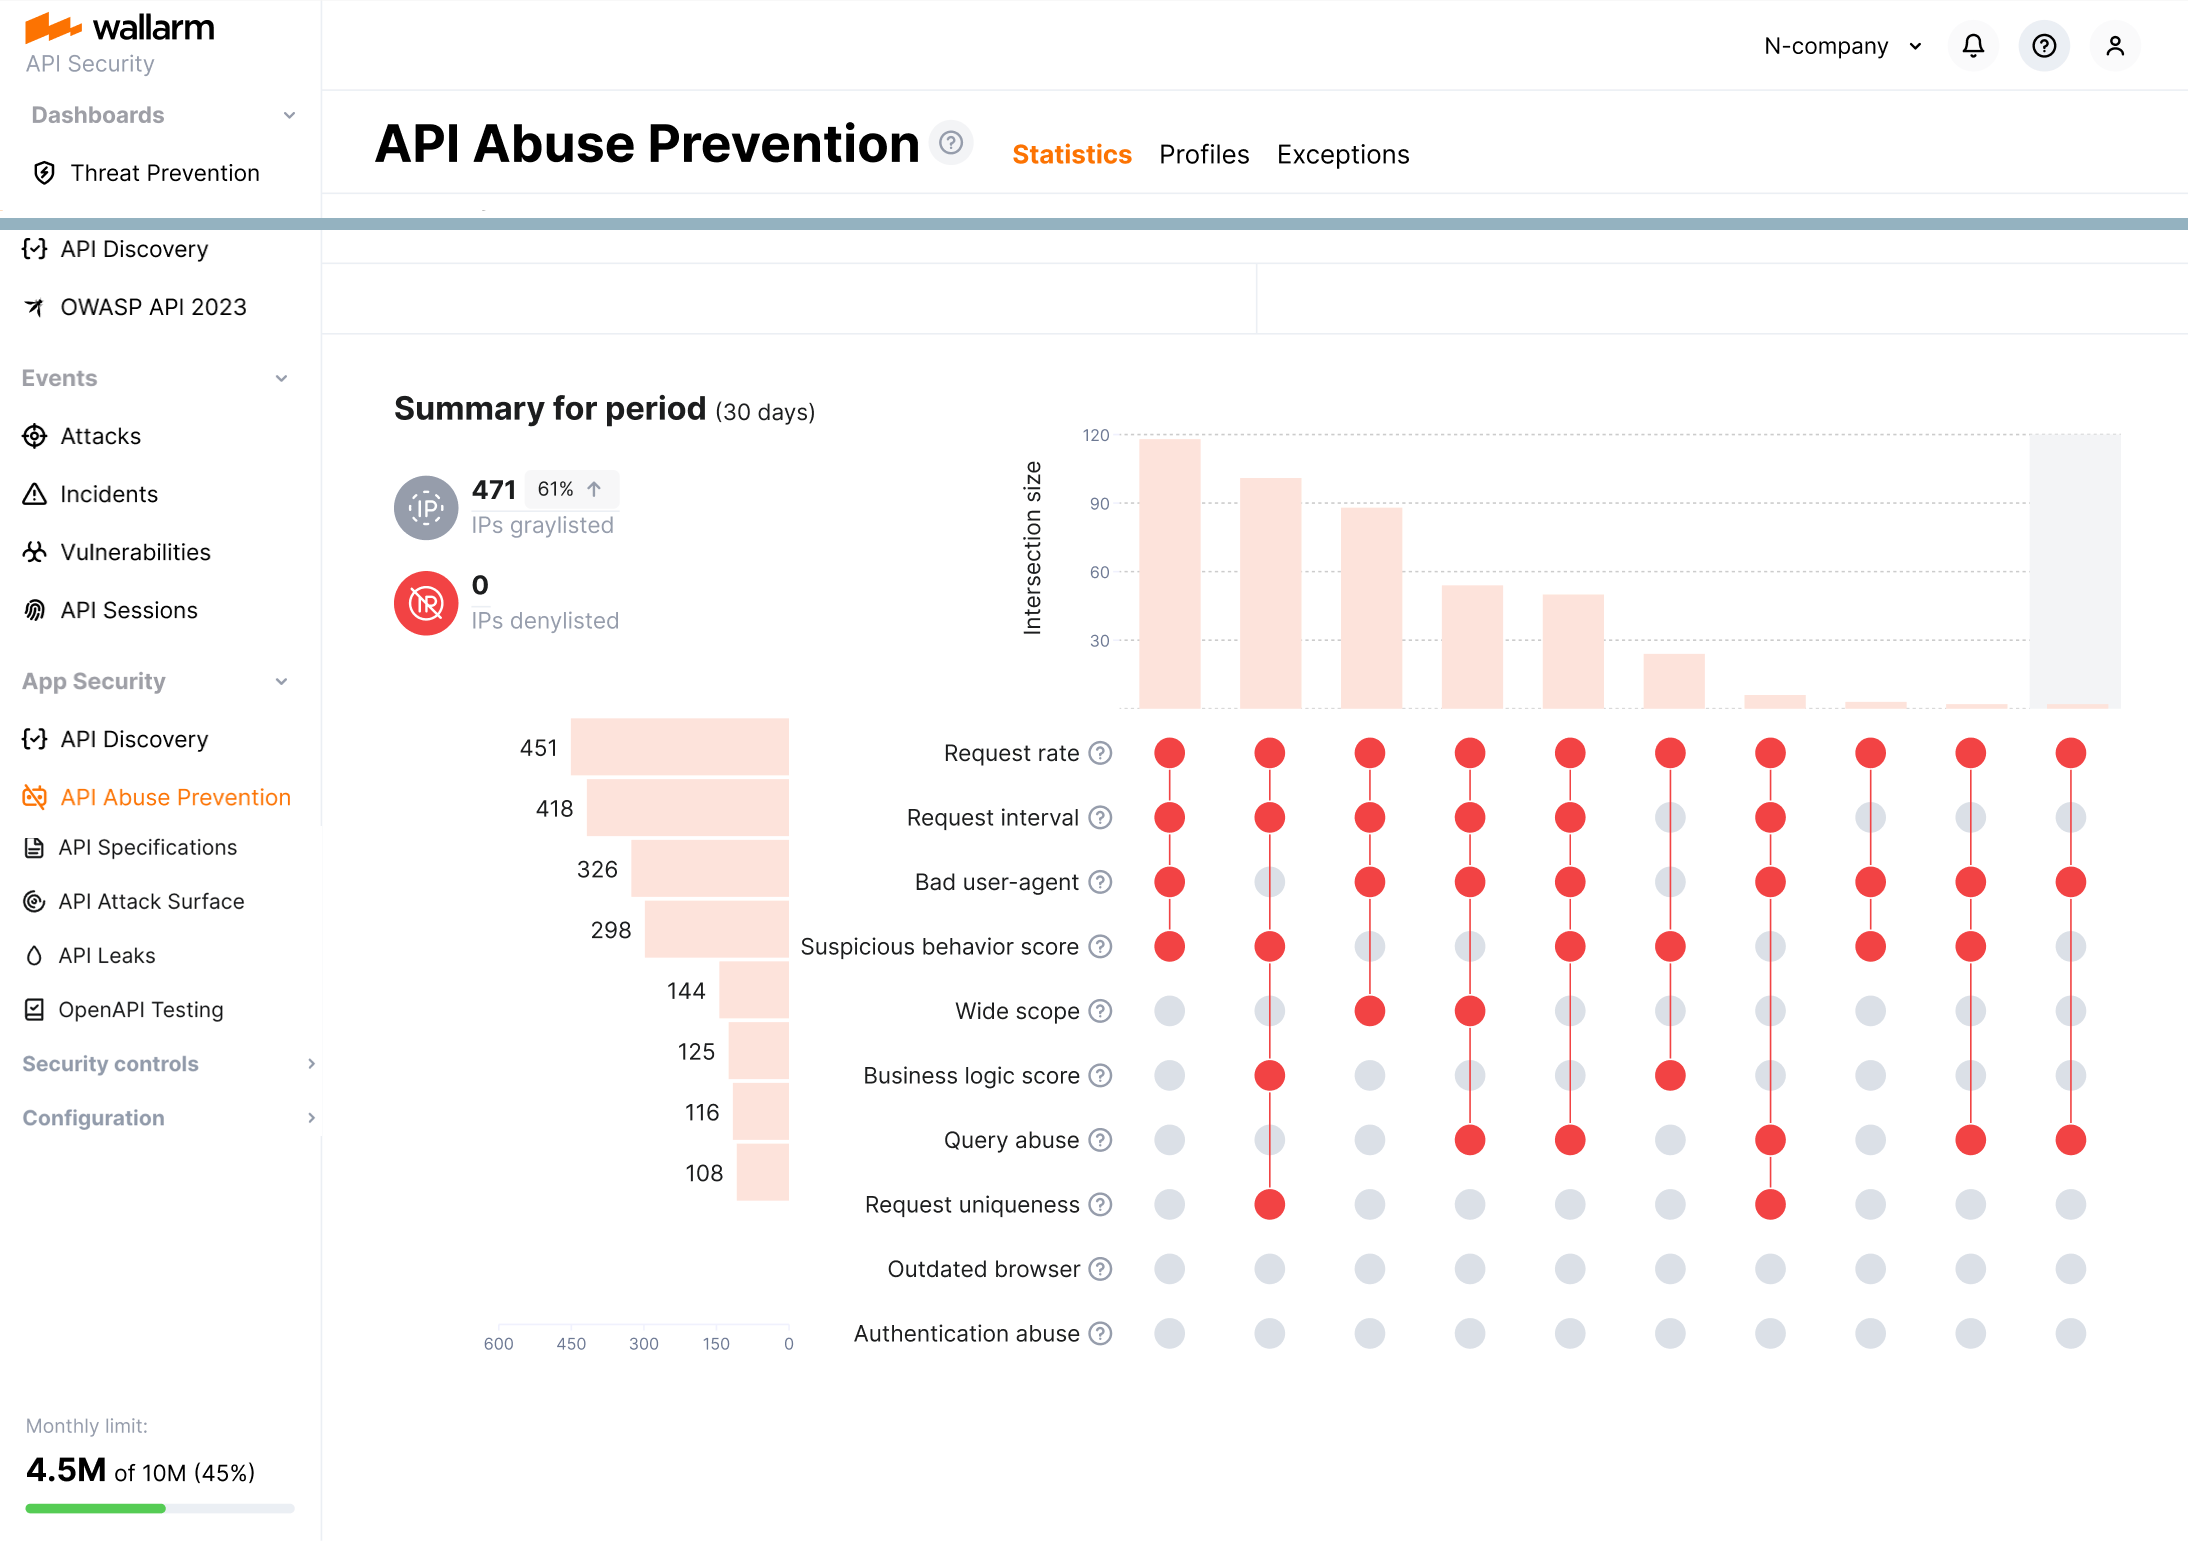
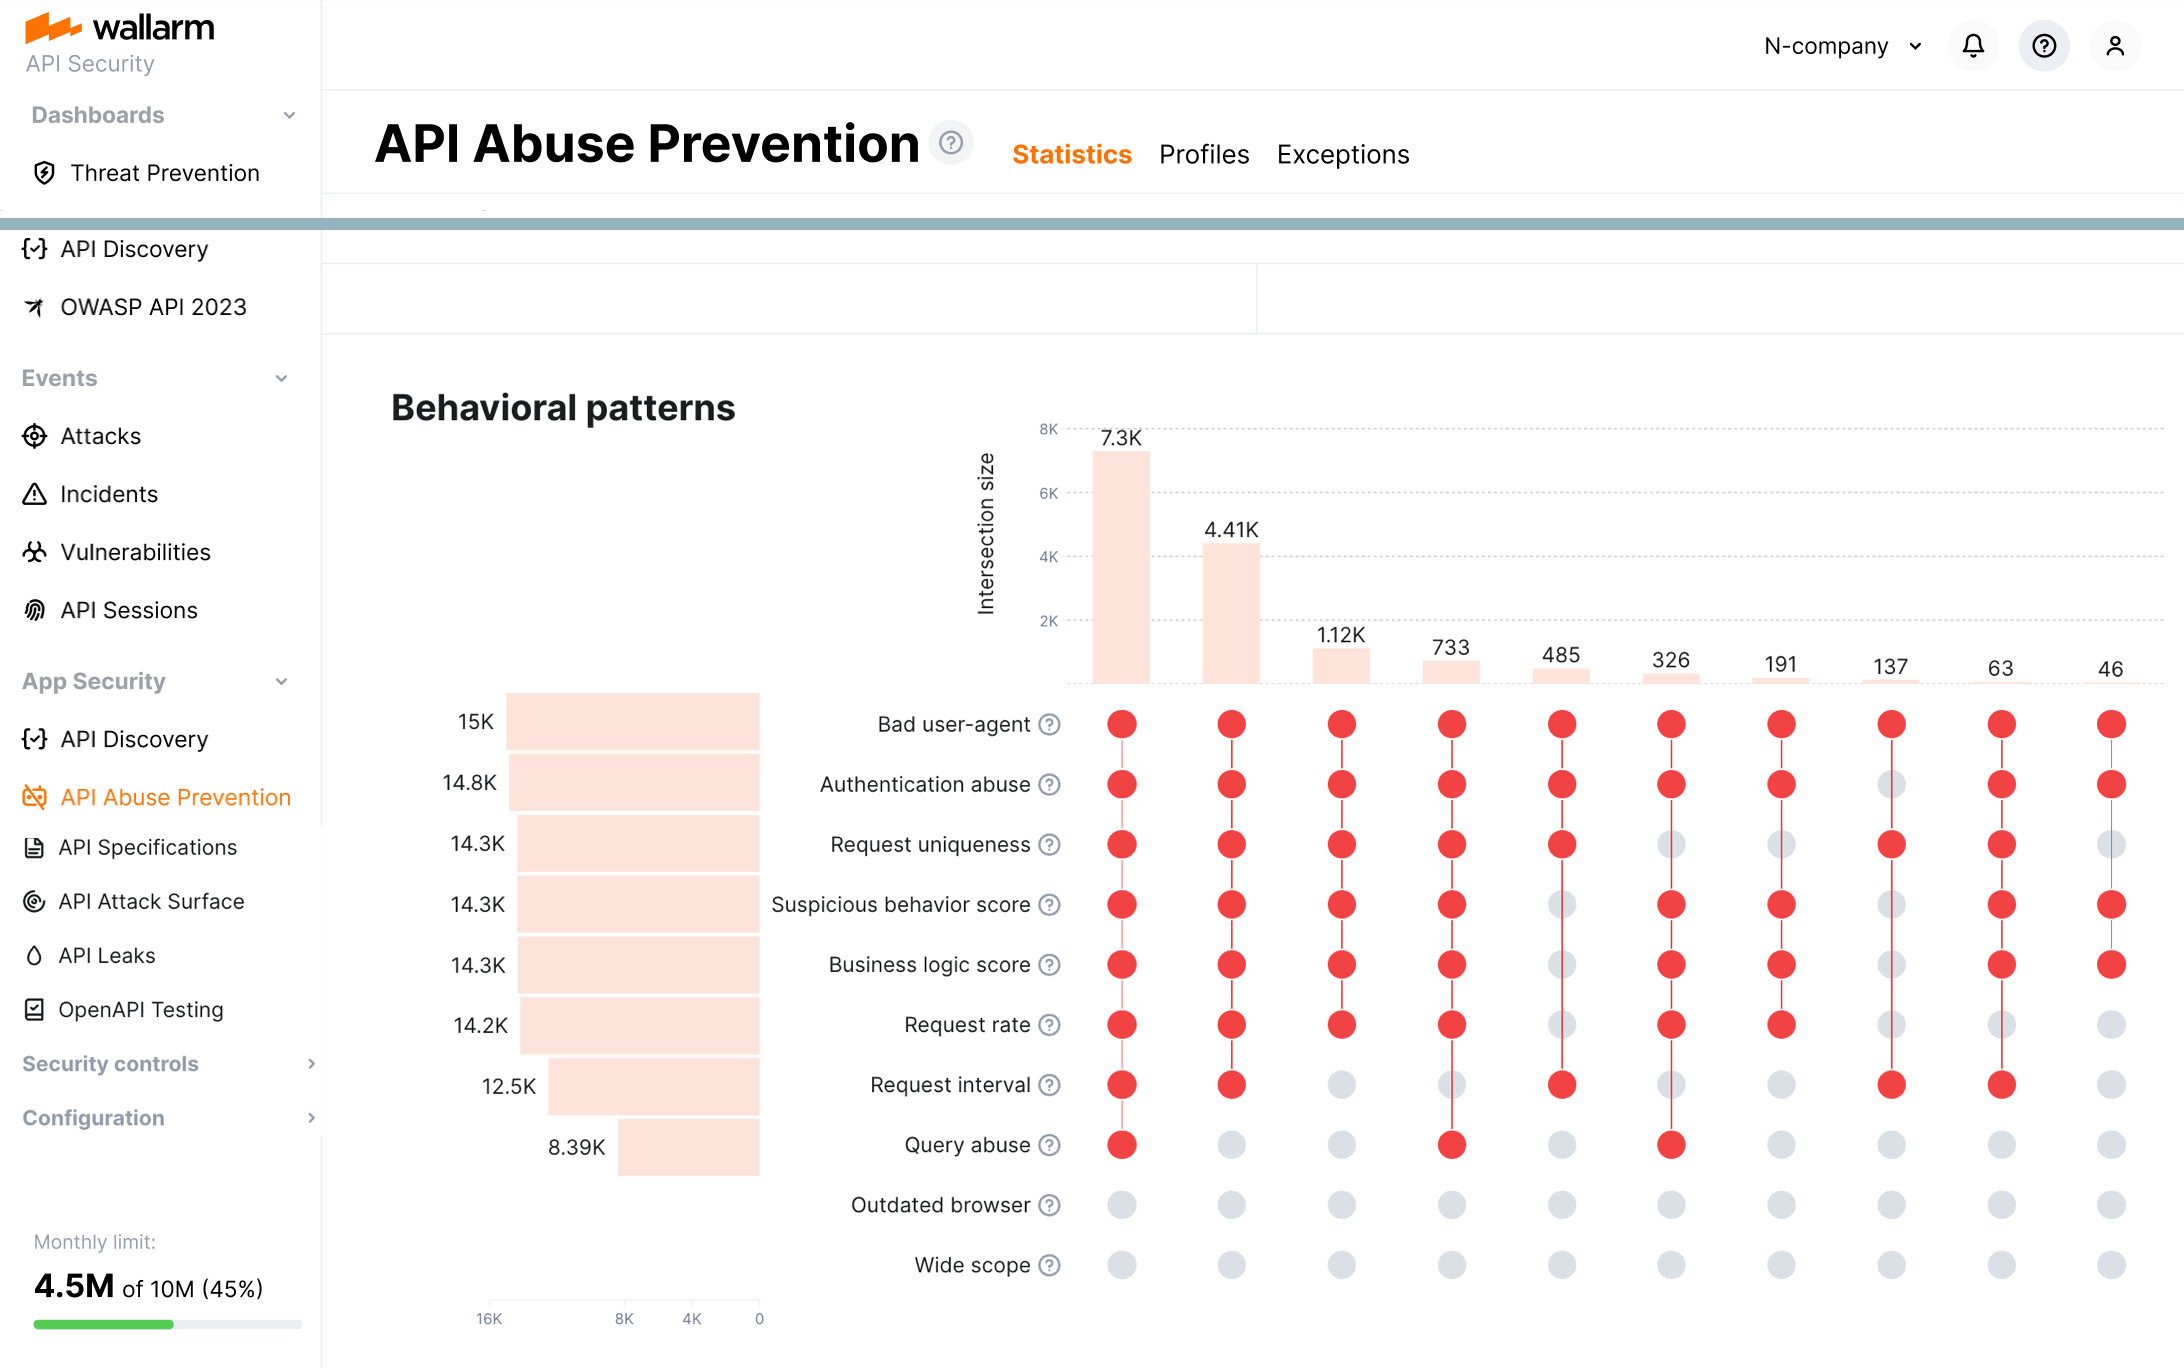
DOCS-1945 Updates due to changes in design

diff --git a/docs/latest/api-abuse-prevention/overview.md b/docs/latest/api-abuse-prevention/overview.md
@@ -21,13 +21,15 @@ API Abuse Prevention uses multiple detectors to identify the malicious bots. The
 
 The following detectors may be involved:
 
-* **Request interval** analyzing the time intervals between consecutive requests to find lacks the randomness which is the sign of bot behavior.
-* **Request uniqueness** analyzing the number of unique endpoints visited during a session. If a client consistently visits a low percentage of unique endpoints, such as 10% or less, it is likely that it is a bot rather than a human user.
-* **Request rate** analyzing the number of requests made in a specific time interval. If an API client consistently makes a high percentage of requests over a certain threshold, it is likely that it is a bot rather than a human user.
 * **Bad user-agent** analyzing the `User-Agent` headers included in requests. This detector checks for specific signatures, including those belonging to crawlers, scrapers, and security checkers.
-* **Outdated browser** analyzing the browser and platform used in requests. If a client is using an outdated or unsupported browser or platform, it is likely that it is a bot rather than a human user.
+* **Authentication abuse** analyzing the ratio of authentication requests against a predetermined threshold and the number of requests per interval to identify anomalous behavior. The detector also incorporates the total volume of authentication requests for an application in order to avoid false positives.
+* **Request uniqueness** analyzing the number of unique endpoints visited during a session. If a client consistently visits a low percentage of unique endpoints, such as 10% or less, it is likely that it is a bot rather than a human user.
 * **Suspicious behavior score** analyzing usual and unusual business logic API requests taken during a session. 
 * **Business logic score** analyzing usage of the critical or sensitive API endpoints within the context of your application behavior.
+* **Request rate** analyzing the number of requests made in a specific time interval. If an API client consistently makes a high percentage of requests over a certain threshold, it is likely that it is a bot rather than a human user.
+* **Request interval** analyzing the time intervals between consecutive requests to find lacks the randomness which is the sign of bot behavior.
+* **Query abuse** analyzing a volume of requests that exceed a predefined threshold as an anomaly. Clients that exceed a threshold for queries that vary a parameter are also considered anomalies. Moreover, the detector compares client query patterns to normal behavior to identify bot activity.
+* **Outdated browser** analyzing the browser and platform used in requests. If a client is using an outdated or unsupported browser or platform, it is likely that it is a bot rather than a human user.
 * **Wide scope** analyzing breadth of IP activity to behaviorally identify crawler-like bots.
 
 !!! info "Confidence"

diff --git a/docs/latest/api-abuse-prevention/exploring-bots.md b/docs/latest/api-abuse-prevention/exploring-bots.md
@@ -19,13 +19,11 @@ You can interfere in the bot protection process. If denylisted or graylisted IP 
 
 API Abuse Prevention conveniently visualizes the data on bot activities for the last 30 days at the **Statistics** tab. This includes:
 
-* **Bot activity**: general number of bot attacks and attacks by [bot type](../about-wallarm/api-abuse-prevention.md#automated-threats-blocked-by-api-abuse-prevention) for the period.
+* Summary: number of IPs, [deny- or graylisted](../user-guides/api-abuse-prevention.md#creating-profiles) within the period.
+* **Bot activity**: number of bot attacks by [bot type](../about-wallarm/api-abuse-prevention.md#automated-threats-blocked-by-api-abuse-prevention) for the dates within the period.
 * **Top attackers**: IPs of attackers with most attacks for the period.
 * **Top targets**: API hosts or paths most attacked during the period.
-
-    Click in any section to switch to the corresponding [**Attacks**](#attacks).
-
-* **Summary for period**: number of IPs, [deny- or graylisted](../user-guides/api-abuse-prevention.md#creating-profiles) within the period as bots with information of how many detectors identified the bot. Click to switch to **IP Lists** [history](../user-guides/ip-lists/overview.md#ip-list-history).
+* **Behavioral patterns**: number of bot attacks within the period identified by the specific detector and different sets of [detectors](../about-wallarm/api-abuse-prevention.md#how-api-abuse-prevention-works).
 
 ![API abuse prevention statistics](../images/about-wallarm-waf/abi-abuse-prevention/api-abuse-prevention-statistics.png)
 
